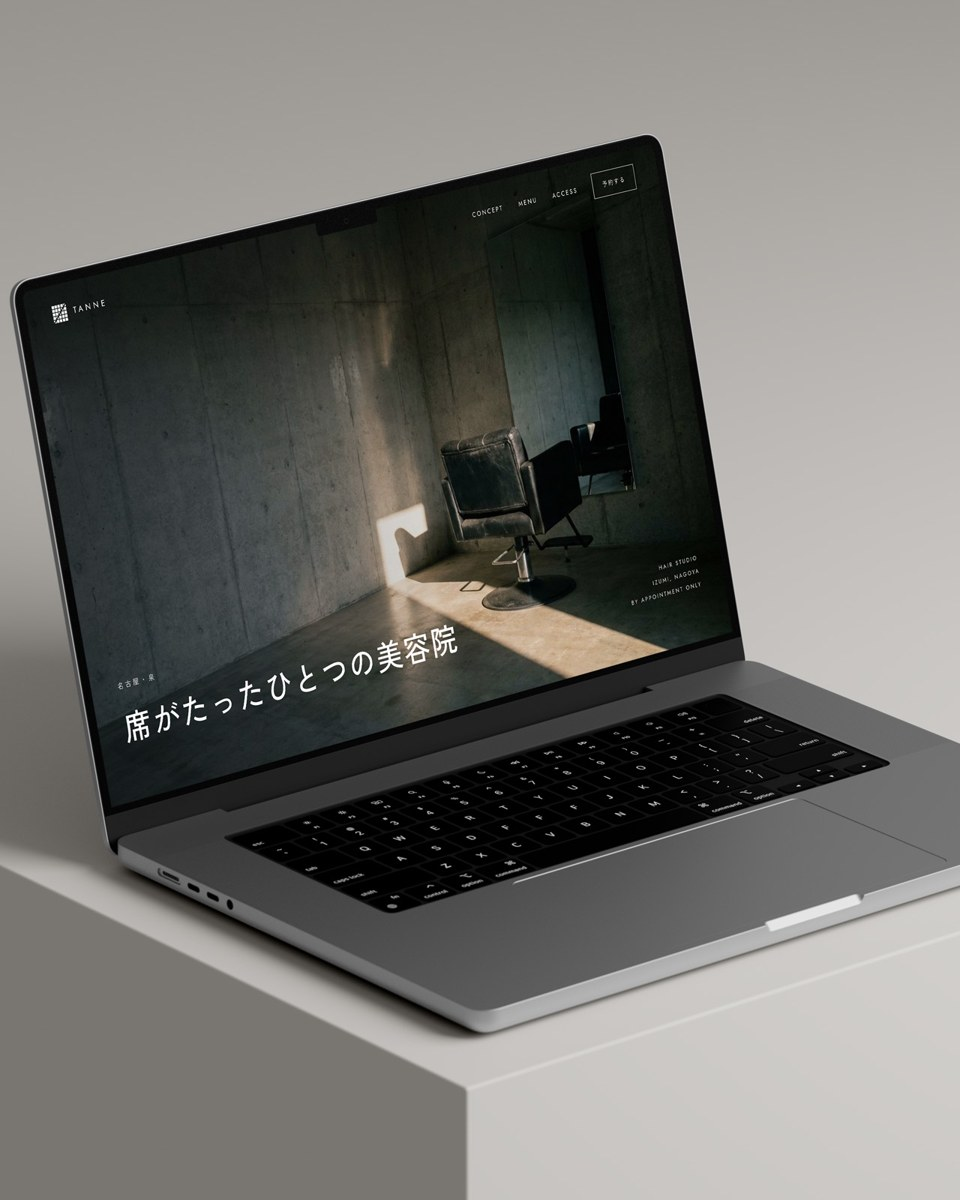
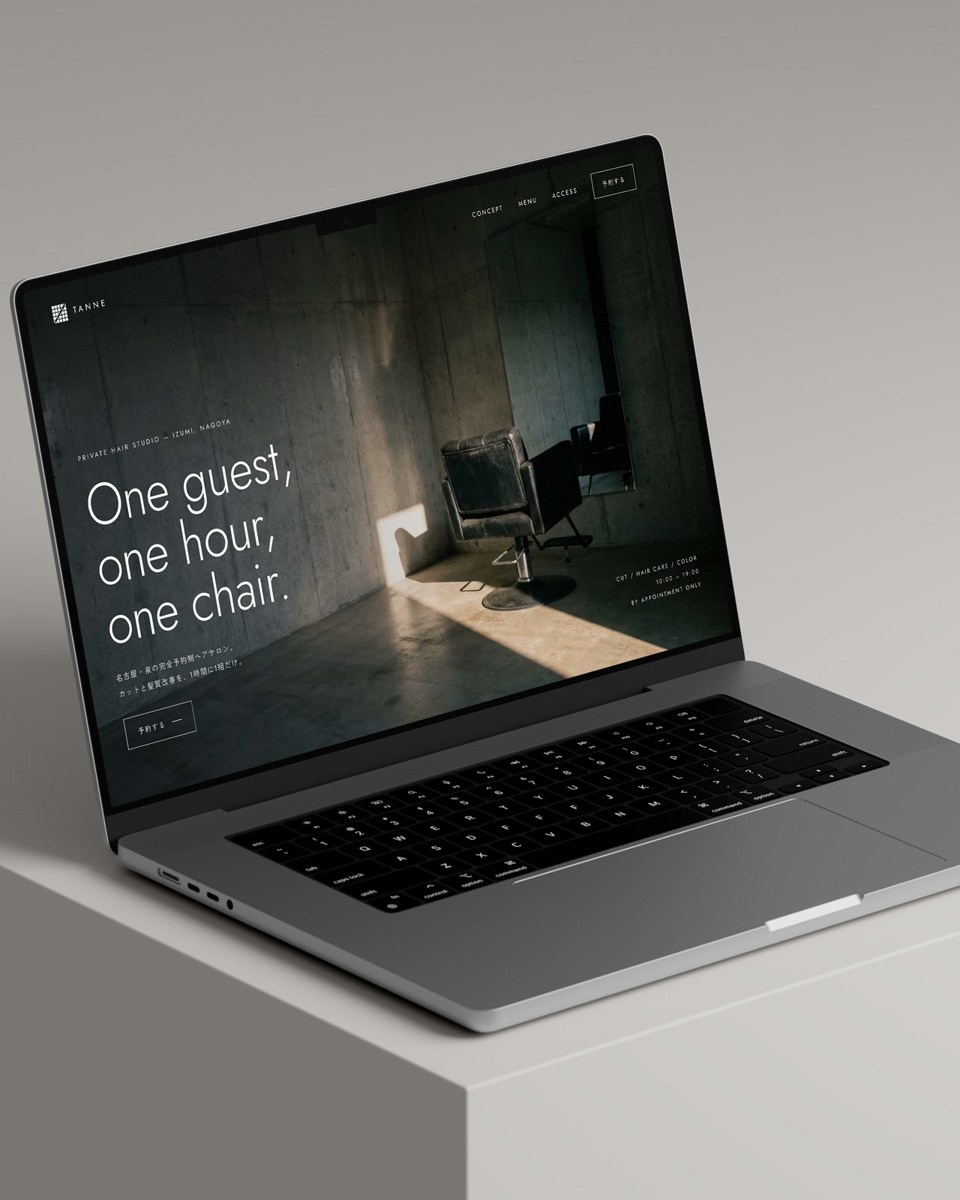
スマホの表示と動きを改善、実績の文言と画像を更新
- 毎フレームのレイアウト読み取りをまとめ、スマホのぼかしをやめてカクつきを軽減
- ファーストビューに「デザイン事務所」の一文、速さ/価格の打ち替え
- スマホ: ヒーローの球を中ほどに、料金のカートと合計を上に固定、よくある質問を短く
- 実績: 説明を短く、TANNE の Web とTRNS の缶バッジに差し替え

diff --git a/index.html b/index.html
@@ -74,6 +74,11 @@ h2{font-weight:300;font-size:clamp(24px,2.9vw,42px);line-height:1.7;letter-spaci
 .hero p{margin-top:12px;font-size:12.5px;letter-spacing:.08em;color:#52555d;opacity:0;animation:fadeup 1.4s var(--e) 1.1s forwards}
 .hero p.hl{margin-top:20px;font-size:14px;line-height:2.1;letter-spacing:.05em;color:#3f4249;max-width:40em}
 .hero p.hl span{display:inline-block}
+.hero p.eb{margin:0 0 18px;font-size:12.5px;letter-spacing:.12em;color:#3f4249;display:flex;align-items:center;gap:12px;animation-delay:.75s}
+.hero p.eb:before{content:"";width:28px;height:1px;background:currentColor;opacity:.6}
+.hero .ty{display:inline-block;min-width:2em}
+.hero .caret{display:inline-block;width:2px;height:.95em;margin:0 .08em 0 .04em;vertical-align:-.1em;background:currentColor;animation:blink 1s steps(1) infinite}
+@keyframes blink{50%{opacity:0}}
 .hcta{display:flex;align-items:center;gap:28px;margin-top:30px;opacity:0;animation:fadeup 1.4s var(--e) 1.3s forwards}
 .btn.sm{padding:5px 5px 5px 24px;font-size:12px}.btn.sm i{width:34px;height:34px}
 .tl{font-size:12.5px;letter-spacing:.1em;color:inherit;text-decoration:none;border-bottom:1px solid currentColor;padding-bottom:3px;opacity:.8;transition:opacity .3s}
@@ -178,6 +183,8 @@ h2{font-weight:300;font-size:clamp(24px,2.9vw,42px);line-height:1.7;letter-spaci
 .lg p{font-size:12.5px;color:#a6a9b1;letter-spacing:.04em;line-height:1.8}
 /* estimate: pick, and a slip prints */
 .ctw{position:sticky;top:84px}
+.ctot{display:none}
+@media (max-width:900px){.ctot{display:block}}
 #cart{width:100%;height:min(64vh,560px);display:block}
 .est .wrap{display:grid;grid-template-columns:minmax(300px,420px) 340px minmax(300px,480px);gap:clamp(32px,6vw,110px);margin-top:56px;align-items:start;justify-content:space-between;max-width:1380px}
 .gk{font-family:var(--serif);font-size:13px;color:var(--sub);margin:0 0 10px}
@@ -316,15 +323,25 @@ h2{font-weight:300;font-size:clamp(24px,2.9vw,42px);line-height:1.7;letter-spaci
   .slip,.ctw{position:static}
   #cart{height:250px}
   /* 3D の上に乗る文字は、すりガラスの面に置く */
-  section.dk .col,section.flow .fs{position:relative;padding:30px 22px 32px;margin-left:-8px;margin-right:-8px;background:rgba(44,45,50,.9);-webkit-backdrop-filter:blur(18px) saturate(1.1);backdrop-filter:blur(18px) saturate(1.1);border:1px solid rgba(255,255,255,.07);border-radius:16px}
+  section.dk .col,section.flow .fs{position:relative;padding:30px 22px 32px;margin-left:-8px;margin-right:-8px;background:rgba(44,45,50,.95);border:1px solid rgba(255,255,255,.07);border-radius:16px}
   section.dk .col .lead,section.dk .col .soku{border-top-color:rgba(160,163,170,.3)}
   section.dk{justify-content:flex-end}
   .svc{min-height:138svh}
+  .q button{padding:15px 0;font-size:14px}
+  .q p{font-size:13px;line-height:1.9}
+  .q.open p{padding-bottom:16px}
+  .fl p{margin:10px 0 14px}
+  .est .wrap{margin-top:28px}
+  .est .wrap .ctw{position:sticky;top:60px;z-index:3;margin:0 calc(var(--px) * -1) 6px;padding:0 var(--px);background:linear-gradient(180deg,rgba(225,226,229,.97) 78%,rgba(225,226,229,0))}
+  .est .wrap #cart{height:170px}
+  .ctot{position:absolute;right:var(--px);bottom:18px;text-align:right;font-size:11px;color:#52555d;letter-spacing:.06em}
+  .ctot b{display:block;font-family:var(--serif);font-weight:400;font-size:26px;color:var(--ink);letter-spacing:-.01em}
+  .tile{padding:13px 14px 12px}
+  .tile .pr{font-size:17px;margin-top:6px}
   .ct .cact{margin-top:36px;gap:12px}
   .ct .btn{margin-top:0}
   .ct{min-height:100svh;padding-bottom:8vh}
   #labels span{font-size:10px}
-  #est>div>.ctw{margin:-4vh 0 28px}
   .flow{min-height:0;padding-bottom:10vh}
   .flow .fs{position:relative;top:auto;height:auto;margin-top:46vh}
 }
@@ -361,7 +378,8 @@ h2{font-weight:300;font-size:clamp(24px,2.9vw,42px);line-height:1.7;letter-spaci
 <section class="hero" data-th="l">
   <div class="stick">
     <div class="wm" id="wm"><span>S</span><span>o</span><span>k</span><span>u</span></div>
-    <h1>品質に妥協せず、<br>速さの次元を変える。</h1>
+    <p class="eb">ロゴ・名刺・チラシ・Webのデザイン事務所</p>
+    <h1>品質に妥協せず、<br><span class="ty" id="ty">速さ</span><i class="caret"></i>の次元を変える。</h1>
     <p class="hl"><span>1回5案、最大15案。</span><br><span>方向が決まってから、</span><span>最短3日で入稿データをお渡しします。</span></p>
     <div class="hcta"><a class="btn onLight sm" href="#est">料金を見る<i></i></a><a class="tl" href="#" data-f="doc">資料請求</a></div>
     <div class="cue">Scroll<i></i></div>
@@ -374,9 +392,9 @@ h2{font-weight:300;font-size:clamp(24px,2.9vw,42px);line-height:1.7;letter-spaci
     <div class="cnt"><span id="wn">01</span><i id="wb"></i><span>03</span></div>
     <div class="track" id="track">
       <div class="wintro"><p>同じ進め方で制作した作例です。ロゴから名刺・チラシ・Webまで、ひとつの考え方でそろえています。</p><span>Scroll</span></div>
-      <article class="wk"><div class="wi"><img src="works/roume-flyer.jpg" alt="ROUME チラシ"></div><div class="ws"><img src="works/roume-t1.png" alt="ROUME ロゴ" loading="lazy"><img src="works/roume-t2.jpg" alt="ROUME 名刺" loading="lazy"><img src="works/roume-t3.jpg" alt="ROUME 名刺とチラシ" loading="lazy"></div><div class="wc"><div class="no">01</div><h3>ROUME</h3><div class="mt"><b>作例</b>古道具とコーヒーの店</div><ul class="dl"><li>ロゴ</li><li>名刺</li><li>チラシ</li></ul></div></article>
-      <article class="wk"><div class="wi"><img src="works/tanne-web1.jpg" alt="TANNE Webサイト"></div><div class="ws"><img src="works/tanne-t1.png" alt="TANNE ロゴ" loading="lazy"><img src="works/tanne-t2.jpg" alt="TANNE 名刺" loading="lazy"><img src="works/tanne-t3.jpg" alt="TANNE Webサイト スマホ" loading="lazy"></div><div class="wc"><div class="no">02</div><h3>TANNE</h3><div class="mt"><b>作例</b>ひとりで営む美容室</div><ul class="dl"><li>ロゴ</li><li>名刺</li><li>Web</li></ul></div></article>
-      <article class="wk"><div class="wi"><img src="works/trns-tee.jpg" alt="TRNS Tシャツ"></div><div class="ws"><img src="works/trns-t1.png" alt="TRNS ロゴ" loading="lazy"><img src="works/trns-t2.jpg" alt="TRNS ステッカー" loading="lazy"><img src="works/trns-t3.jpg" alt="TRNS チラシ" loading="lazy"></div><div class="wc"><div class="no">03</div><h3>TRNS</h3><div class="mt"><b>作例</b>ストリートウェアのブランド</div><ul class="dl"><li>ロゴ</li><li>グッズ</li><li>チラシ</li></ul></div></article>
+      <article class="wk"><div class="wi"><img src="works/roume-flyer.jpg" alt="ROUME チラシ"></div><div class="ws"><img src="works/roume-t1.png" alt="ROUME ロゴ" loading="lazy"><img src="works/roume-t2.jpg" alt="ROUME 名刺" loading="lazy"><img src="works/roume-t3.jpg" alt="ROUME 名刺とチラシ" loading="lazy"></div><div class="wc"><div class="no">01</div><h3>ROUME</h3><div class="mt"><b>作例</b>古道具とコーヒー</div><ul class="dl"><li>ロゴ</li><li>名刺</li><li>チラシ</li></ul></div></article>
+      <article class="wk"><div class="wi"><img src="works/tanne-web1.jpg" alt="TANNE Webサイト"></div><div class="ws"><img src="works/tanne-t1.png" alt="TANNE ロゴ" loading="lazy"><img src="works/tanne-t2.jpg" alt="TANNE 名刺" loading="lazy"><img src="works/tanne-t3.jpg" alt="TANNE Webサイト スマホ" loading="lazy"></div><div class="wc"><div class="no">02</div><h3>TANNE</h3><div class="mt"><b>作例</b>プライベートサロン</div><ul class="dl"><li>ロゴ</li><li>名刺</li><li>Web</li></ul></div></article>
+      <article class="wk"><div class="wi"><img src="works/trns-tee.jpg" alt="TRNS Tシャツ"></div><div class="ws"><img src="works/trns-t1.png" alt="TRNS ロゴ" loading="lazy"><img src="works/trns-t2.jpg" alt="TRNS 缶バッジ" loading="lazy"><img src="works/trns-t3.jpg" alt="TRNS チラシ" loading="lazy"></div><div class="wc"><div class="no">03</div><h3>TRNS</h3><div class="mt"><b>作例</b>ストリートウェアブランド</div><ul class="dl"><li>ロゴ</li><li>グッズ</li><li>チラシ</li></ul></div></article>
     </div>
   </div>
 </section>
@@ -436,7 +454,7 @@ h2{font-weight:300;font-size:clamp(24px,2.9vw,42px);line-height:1.7;letter-spaci
         <a class="tl ask" href="#" data-f="talk">先に相談したい</a>
         <p class="fine">金額は税別です。パッケージ・グッズなどは、ご相談のうえお見積もりします。</p>
       </aside>
-      <div class="ctw reveal d2"><canvas id="cart"></canvas></div>
+      <div class="ctw reveal d2"><canvas id="cart"></canvas><div class="ctot"><span>合計(税別)</span><b id="tot2">¥30,000</b></div></div>
     </div>
     <details class="src reveal">
       <summary>「一般的な相場」の出典</summary>
@@ -467,14 +485,12 @@ h2{font-weight:300;font-size:clamp(24px,2.9vw,42px);line-height:1.7;letter-spaci
         <a class="tl reveal d2" href="#" data-f="talk">お問い合わせ</a>
       </div>
       <div class="qs" id="qs">
-        <div class="q reveal"><button>どこからが3日ですか。<i></i></button><div><p>ヒアリングシートとお打ち合わせで、方向が決まった時点から数えます。ロゴ・名刺・チラシ・Webは、最短3日で入稿できるデータまで進めます。</p></div></div>
-        <div class="q reveal"><button>AIで作ると、AIっぽくなりませんか。<i></i></button><div><p>AIを使うのは、案を出す段階だけです。形を選び、線や文字を整えるのはデザイナーです。作例のロゴも、この方法で作っています。</p></div></div>
-        <div class="q reveal"><button>AIを使ったロゴの権利は、どうなりますか。<i></i></button><div><p>お渡しするロゴは、AIの案をもとにデザイナーがIllustratorで描き直したものです。完成したデザインの権利は、お支払いの完了後にお客さまへお譲りします。商標の調査と出願は含まれないため、登録をお考えの場合は弁理士にご相談ください。</p></div></div>
-        <div class="q reveal"><button>何案見られますか。<i></i></button><div><p>1回につき5案をお出しします。ご意見をうかがって、3回までご提案します。</p></div></div>
-        <div class="q reveal"><button>イメージに合わなかったら、どうなりますか。<i></i></button><div><p>3回のご提案でも方向が決まらない場合は、お支払いの半額を返金し、そこで終了となります。あらかじめご了承ください。</p></div></div>
-        <div class="q reveal"><button>支払いはいつですか。<i></i></button><div><p>ご注文のときに、先にお支払いいただきます。</p></div></div>
-        <div class="q reveal"><button>どんなデータで届きますか。<i></i></button><div><p>印刷所へそのまま出せる入稿データと、画面で使える画像データをお渡しします。ロゴは、使い方のガイドと色の指定も付きます。</p></div></div>
-        <div class="q reveal"><button>ここにないものも頼めますか。<i></i></button><div><p>パッケージ、グッズ、看板なども承っております。内容をうかがい、お見積もりします。</p></div></div>
+        <div class="q reveal"><button>どこからが3日ですか。<i></i></button><div><p>方向が決まった時点から数えます。</p></div></div>
+        <div class="q reveal"><button>何案見られますか。<i></i></button><div><p>1回5案、3回までご提案します。それでも決まらない場合は、半額を返金して終了となります。</p></div></div>
+        <div class="q reveal"><button>AIっぽくなりませんか。<i></i></button><div><p>AIを使うのは案出しまでです。形を選び、線や文字を仕上げるのはデザイナーです。</p></div></div>
+        <div class="q reveal"><button>ロゴの権利はどうなりますか。<i></i></button><div><p>お支払いの完了後にお譲りします。商標の調査と出願は含みません。</p></div></div>
+        <div class="q reveal"><button>支払いはいつですか。<i></i></button><div><p>ご注文時の前払いです。</p></div></div>
+        <div class="q reveal"><button>どんなデータで届きますか。<i></i></button><div><p>入稿データ、画像データ、ロゴの使い方ガイドをお渡しします。</p></div></div>
       </div>
     </div>
   </div>
@@ -534,7 +550,7 @@ function calc(){
  const all=[...one,...mo.map(i=>({...i,mo:1}))];
  document.getElementById('rows').innerHTML=all.length?all.map(i=>`<li${prev.has(i.id)?' style="animation:none"':''}><span>${i.n}</span><span>${yen(i.p)}${i.mo?' /月':''}</span></li>`).join(''):'<li class="emp"><span>項目を選んでください</span><span></span></li>';
  prev=new Set(all.map(i=>i.id));
- tween('tot',tot,document.getElementById('tot'));tween('cm',cm,document.getElementById('cm'));
+ tween('tot',tot,document.getElementById('tot'));{const t2=document.getElementById('tot2');if(t2)t2.textContent=yen(tot)+(moT?' +月'+yen(moT):'')}tween('cm',cm,document.getElementById('cm'));
  document.getElementById('mo').textContent=moT?`+ ${yen(moT)} / 月`:'';
  document.getElementById('df').textContent=cm?`相場との差 − ${yen(cm-cs)}`:'';
  document.getElementById('dy').textContent=all.length?'最短 3 日':'—';
@@ -608,7 +624,7 @@ document.querySelectorAll('.reveal').forEach(el=>io.observe(el));
    if(!w&&it.on){it.on=false;it.rest=false}});kick()}
  window.__cart=s=>{want=s;if(vis)sync()};
  const sv=new THREE.Vector3();let sw0=0;
- window.__cartSlot=id=>{const r=cv.getBoundingClientRect();if(!r.width)return null;if(cv.clientWidth!==sw0){sw0=cv.clientWidth;size()}
+ window.__cartSlot=(id,r0)=>{const r=r0||cv.getBoundingClientRect();if(!r.width)return null;if(cv.clientWidth!==sw0){sw0=cv.clientWidth;size()}
   const[x,z]=SLOT[id];sv.set(x,2.05,z);g.updateMatrixWorld();g.localToWorld(sv);sv.project(cam);
   return[r.left+(sv.x*.5+.5)*r.width,r.top+(-sv.y*.5+.5)*r.height]};
  function kick(){if(!raf){last=performance.now();raf=requestAnimationFrame(tick)}}
@@ -628,7 +644,7 @@ document.querySelectorAll('.reveal').forEach(el=>io.observe(el));
 calc();
 /* スマホでは、天体が落ちてくるカートを料金の章の先頭に置く */
 (function(){const ctw=document.querySelector('.ctw'),home=ctw.parentNode,next=ctw.nextSibling,inner=document.querySelector('#est>div');
- function place(){const n=innerWidth<=900;if(n&&ctw.parentNode!==inner)inner.insertBefore(ctw,inner.firstChild);else if(!n&&ctw.parentNode!==home)home.insertBefore(ctw,next)}
+ function place(){const n=innerWidth<=900;if(n){if(home.firstChild!==ctw)home.insertBefore(ctw,home.firstChild)}else if(ctw.parentNode!==home||ctw.nextSibling!==next)home.insertBefore(ctw,next)}
  place();addEventListener('resize',place)})();
 (function(){
  if(matchMedia('(prefers-reduced-motion:reduce)').matches||matchMedia('(pointer:coarse)').matches)return;
@@ -675,6 +691,11 @@ document.querySelectorAll('[data-k]').forEach(a=>a.addEventListener('click',()=>
   try{if(FORM_ENDPOINT){const r=await fetch(FORM_ENDPOINT,{method:'POST',headers:{'Accept':'application/json'},body:new FormData(ff)});if(!r.ok)throw 0}
    fm.classList.add('done');ff.reset()}catch(_){err.textContent='送信できませんでした。時間をおいて、もう一度お試しください。'}});
 })();
+/* 「速さ」と「価格」を打ち替える */
+(function(){const el=document.getElementById('ty');if(!el)return;
+ const W=['速さ','価格'];let wi=0;const wait=ms=>new Promise(r=>setTimeout(r,ms));
+ (async()=>{await wait(3600);for(;;){const cur=W[wi];for(let i=cur.length;i>0;i--){el.textContent=cur.slice(0,i-1);await wait(110)}
+   await wait(260);wi=(wi+1)%W.length;const nx=W[wi];for(let i=1;i<=nx.length;i++){el.textContent=nx.slice(0,i);await wait(150)}await wait(2600)}})()})();
 const menu=document.getElementById('menu'),mb=document.getElementById('mb');
 mb.onclick=()=>{menu.classList.toggle('open');const o=menu.classList.contains('open');mb.classList.toggle('x',o);mb.lastChild.textContent=o?'Close':'Menu'};
 menu.onclick=()=>{menu.classList.remove('open');mb.classList.remove('x');mb.lastChild.textContent='Menu'};
@@ -800,7 +821,10 @@ function resize(){
   W=innerWidth;H=innerHeight;renderer.setSize(W,H,false);
   narrow=W/H<1.1||W<900;camera.aspect=W/H;lastVX=-1;camera.clearViewOffset();camera.updateProjectionMatrix();measure();
 }
-addEventListener('resize',resize);resize();
+const TG={span:0,c:[]};let worksP=0;
+function measureTrack(){TG.span=Math.max(0,track.scrollWidth-innerWidth);TG.c=slides.map(el=>el.offsetLeft+el.offsetWidth*.5)}
+addEventListener('resize',()=>setTimeout(measureTrack,50));track.querySelectorAll('img').forEach(im=>im.addEventListener('load',measureTrack));
+addEventListener('resize',resize);resize();measureTrack();addEventListener('load',measureTrack);
 addEventListener('load',()=>{measure();setTimeout(measure,800)});
 let mx=0,my=0,tmx=0,tmy=0;
 addEventListener('pointermove',e=>{tmx=(e.clientX/innerWidth-.5)*2;tmy=(e.clientY/innerHeight-.5)*2},{passive:true});
@@ -828,28 +852,34 @@ function frame(now){
   const[az,el,r,ly,fld,vx,conv,size,pz,lz]=cur;
 
   /* the light sheet: one fixed layer whose opacity follows the scroll — no edge, the 3D shows through until it is full */
+  /* レイアウトの読み取りは、書き込みの前にまとめて行う(毎フレームの再計算を避ける) */
+  const RC=covers.map(c=>c.getBoundingClientRect()),RW=RC[covers.indexOf(worksEl)]||worksEl.getBoundingClientRect();
+  const RCART=(tS>4.4&&tS<5.7)?cartEl.getBoundingClientRect():null;
+  const RSVC=(tS>3.7&&tS<5.1)?svcCol.getBoundingClientRect():null;
+  const RSTEP=(narrow&&tS>5.6&&tS<7.5)?steps.map(e=>e.getBoundingClientRect().top):null;
   let sp=0;
-  covers.forEach((c,i)=>{const b=c.getBoundingClientRect();
+  covers.forEach((c,i)=>{const b=RC[i];
     const isW=c===worksEl;
     let p=isW?cl((H*.35-b.top)/(H*1.25)):cl((H-b.top)/(H*(narrow?.62:1.3)));
-    if(!nextIsCover[i])p=Math.min(p,cl((b.bottom-H*.1)/(H*.75)));
+    if(!nextIsCover[i])p=Math.min(p,narrow?cl((b.bottom-H*.04)/(H*.32)):cl((b.bottom-H*.1)/(H*.75)));
     p=ss(p);
-    c.style.setProperty('--p',(isW?ss(cl((p-.15)/.85)):ss(cl((p-(narrow?.25:.55))/(narrow?.75:.45)))).toFixed(3));
+    const pv=isW?ss(cl((p-.15)/.85)):ss(cl((p-(narrow?.25:.55))/(narrow?.75:.45)));if(isW)worksP=pv;
+    const pk=Math.round(pv*1000);if(c.__pk!==pk){c.__pk=pk;c.style.setProperty('--p',(pk/1000).toFixed(3))}
     if(isW)heroStick.style.opacity=cl(1-p*1.6).toFixed(3);
     if(b.top<H&&b.bottom>0)sp=Math.max(sp,p)});
   sheet.style.opacity=sp.toFixed(3);
   const fully=sp>.995;
 
   /* works: 横に流れるギャラリー。中央に来た作品にピントが合う */
-  {const b=worksEl.getBoundingClientRect(),tot=Math.max(1,b.height-H);const P=cl(-b.top/tot);
-   const r=cl((parseFloat(worksEl.style.getPropertyValue('--p'))||0)*1.4-.4),span=Math.max(0,track.scrollWidth-W);
+  if(RW.top<H&&RW.bottom>0){const b=RW,tot=Math.max(1,b.height-H);const P=cl(-b.top/tot);
+   const r=cl(worksP*1.4-.4),span=TG.span;
    /* 止まる位置: はじめ → 各作品が中央に来る位置。間だけ動く */
-   const stops=[0];slides.forEach(el=>{const c=el.offsetLeft+el.offsetWidth*.5-(narrow?W*.5:W*.56);stops.push(Math.max(0,Math.min(span,c)))});
+   const stops=[0];TG.c.forEach(c0=>{const c=c0-(narrow?W*.5:W*.56);stops.push(Math.max(0,Math.min(span,c)))});
    const m=stops.length-1,q=cl(P*1.04)*m,si=Math.min(m-1,Math.floor(q)),f=q-si,mv=ss(cl((f-.3)/.55));
    const x=stops[si]+(stops[si+1]-stops[si])*mv;
    track.style.transform=`translate3d(${(-x).toFixed(1)}px,${((1-ss(r))*60).toFixed(1)}px,0)`;track.style.opacity=ss(r).toFixed(3);
    let ci=0,best=1e9;const cx=narrow?W*.5:W*.56;
-   slides.forEach((s,i)=>{const rc=s.getBoundingClientRect(),c=rc.left+rc.width*.5,d=(c-cx)/W;
+   slides.forEach((s,i)=>{const c=TG.c[i]-x,d=(c-cx)/W;
      if(Math.abs(d)<best){best=Math.abs(d);ci=i}
      const k=Math.min(1,Math.abs(d)*1.6);s.style.opacity=(1-.45*k).toFixed(3);s.style.transform=`scale(${(1-.06*k).toFixed(4)})`;
      const im=s.querySelector('.wi img');im.style.transform=`translate3d(${(-d*60).toFixed(1)}px,0,0) scale(1.08)`});
@@ -869,7 +899,7 @@ function frame(now){
   world.position.y=0;
   if(!narrow){const v=Math.round(vx*400)/400;if(v!==lastVX){camera.setViewOffset(W,H,-W*v,0,W,H);camera.updateProjectionMatrix();lastVX=v}}
   const hL0=1-ramp(tS,.25,.6);
-  if(narrow){const oy=Math.round((.2+.08*hL0)*H);if(oy!==lastVX){camera.setViewOffset(W,H,0,oy,W,H);camera.updateProjectionMatrix();lastVX=oy}}
+  if(narrow){const oy=Math.round((.2*(1-hL0))*H);if(oy!==lastVX){camera.setViewOffset(W,H,0,oy,W,H);camera.updateProjectionMatrix();lastVX=oy}}
   look.set(0,ly,lz);
   const rFull=Math.min(2.1,Math.max(1,.95/camera.aspect));const rN=narrow?rFull+(1.6-rFull)*hL0:1;
   const heroL=1-ramp(tS,.3,.55);
@@ -881,14 +911,14 @@ function frame(now){
   /* hand-off: the sun leaves its system and drops into the cart */
   /* timed, so the path is one straight line on screen whatever the scroll is doing */
   if(tS>=5.45)handT=0;
-  else if(narrow){const rc0=cartEl.getBoundingClientRect();handT=tS>4.9?cl((H*.95-rc0.top)/(H*.42)):0}
+  else if(narrow){const rc0=RCART;handT=(rc0&&tS>4.9)?cl((H*.95-rc0.top)/(H*.42)):0}
   else{if(prevTS>=5.45)handT=1;const on=tS>5.08;handT=cl(handT+(on?1:-1)*dt/.9);if(reduce)handT=on?1:0}
   prevTS=tS;
   const hand=io3(handT),gone=ramp(handT,.94,1);
   const life=heroL*(1-kv);
   const fl=reduce?.5:1;
   baseP.set(mx*.5*heroL+Math.sin(now*.00043)*.08*heroL*fl,Math.sin(now*.0009)*.16*heroL*fl+(reduce?0:Math.sin(now*.0005)*.05)-my*.32*heroL,pz);
-  if(hand>0){const rc=cartEl.getBoundingClientRect();const sl=window.__cartSlot?window.__cartSlot('logo'):null;
+  if(hand>0){const rc=RCART||cartEl.getBoundingClientRect();const sl=window.__cartSlot?window.__cartSlot('logo',rc):null;
     v3.copy(baseP);v3.y+=world.position.y;const d0=v3.distanceTo(camera.position);v3.project(camera);
     const px=sl?sl[0]:rc.left+rc.width*.5,py=sl?sl[1]:rc.top+rc.height*.5;
     const ex=(px/W)*2-1,ey=-(py/H)*2+1;
@@ -917,7 +947,7 @@ function frame(now){
 
   /* solar system */
   const swIn=ss(ramp(tS,3.85,4.12)),cvg=ss(ramp(tS,4.6,4.95)),sw=swIn*(1-cvg);
-  if(swIn>.01&&cvg<.999){sys.visible=true;const tb=svcCol.getBoundingClientRect();sys.scale.setScalar((.55+.45*swIn)*(1-cvg*.97)*(narrow?.86:1));lineM.opacity=.24*sw;
+  if(swIn>.01&&cvg<.999){sys.visible=true;const tb=RSVC||svcCol.getBoundingClientRect();sys.scale.setScalar((.55+.45*swIn)*(1-cvg*.97)*(narrow?.86:1));lineM.opacity=.24*sw;
     planets.forEach(p=>{const an=p.a0+tt*SPD[p.ri]+cvg*cvg*5;p.m.position.set(Math.cos(an)*p.r,0,Math.sin(an)*p.r);
       p.m.getWorldPosition(v3);const dist=v3.distanceTo(camera.position);v3.project(camera);
       const sx=(v3.x*.5+.5)*W+14,sy=(-v3.y*.5+.5)*H-8;
@@ -929,7 +959,7 @@ function frame(now){
   /* three days */
   const rw=ss(ramp(tS,5.85,6.12))*(1-ss(ramp(tS,7.2,7.5)));
   if(rw>.01){ring.visible=true;let fp=cl((tS-6.02)/.62);
-    let kN=0;if(narrow){steps.forEach((el,i)=>{if(el.getBoundingClientRect().top<H*.72)kN=i+1});fp=cl(kN/3)}
+    let kN=0;if(narrow&&RSTEP){RSTEP.forEach((t,i)=>{if(t<H*.72)kN=i+1});fp=cl(kN/3)}
     arcs.forEach((m,i)=>{m.material.opacity=rw*(.16+.84*ss(cl(fp*3-i)))});
     const ma=Math.PI/2-fp*Math.PI*2;marker.position.set(Math.cos(ma)*RAD,Math.sin(ma)*RAD,0);marker.material.opacity=rw;
     const st=narrow?Math.max(0,kN-1):Math.min(2,Math.floor(fp*3+.001));if(st!==lastStep){steps.forEach((s,i)=>s.classList.toggle('on',i<=st));lastStep=st}
